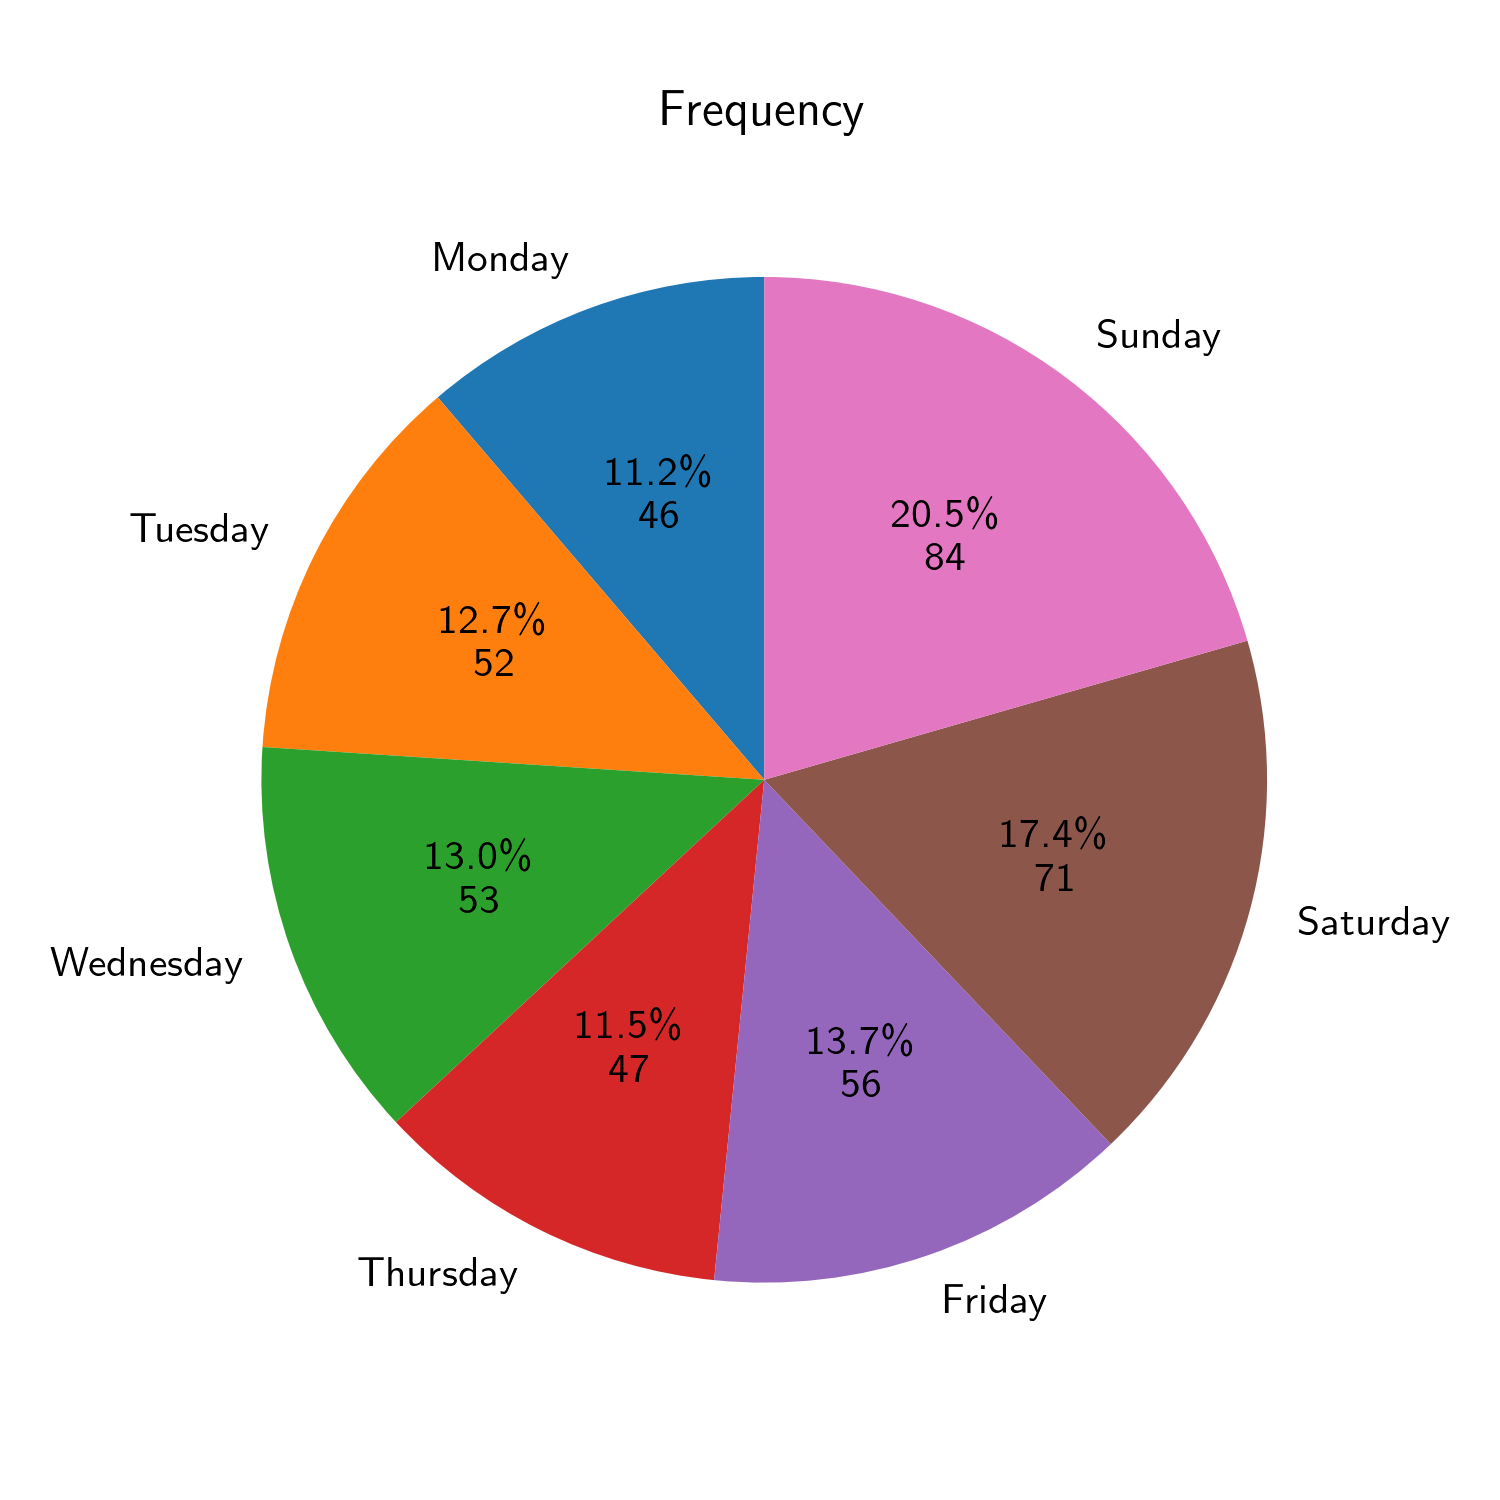
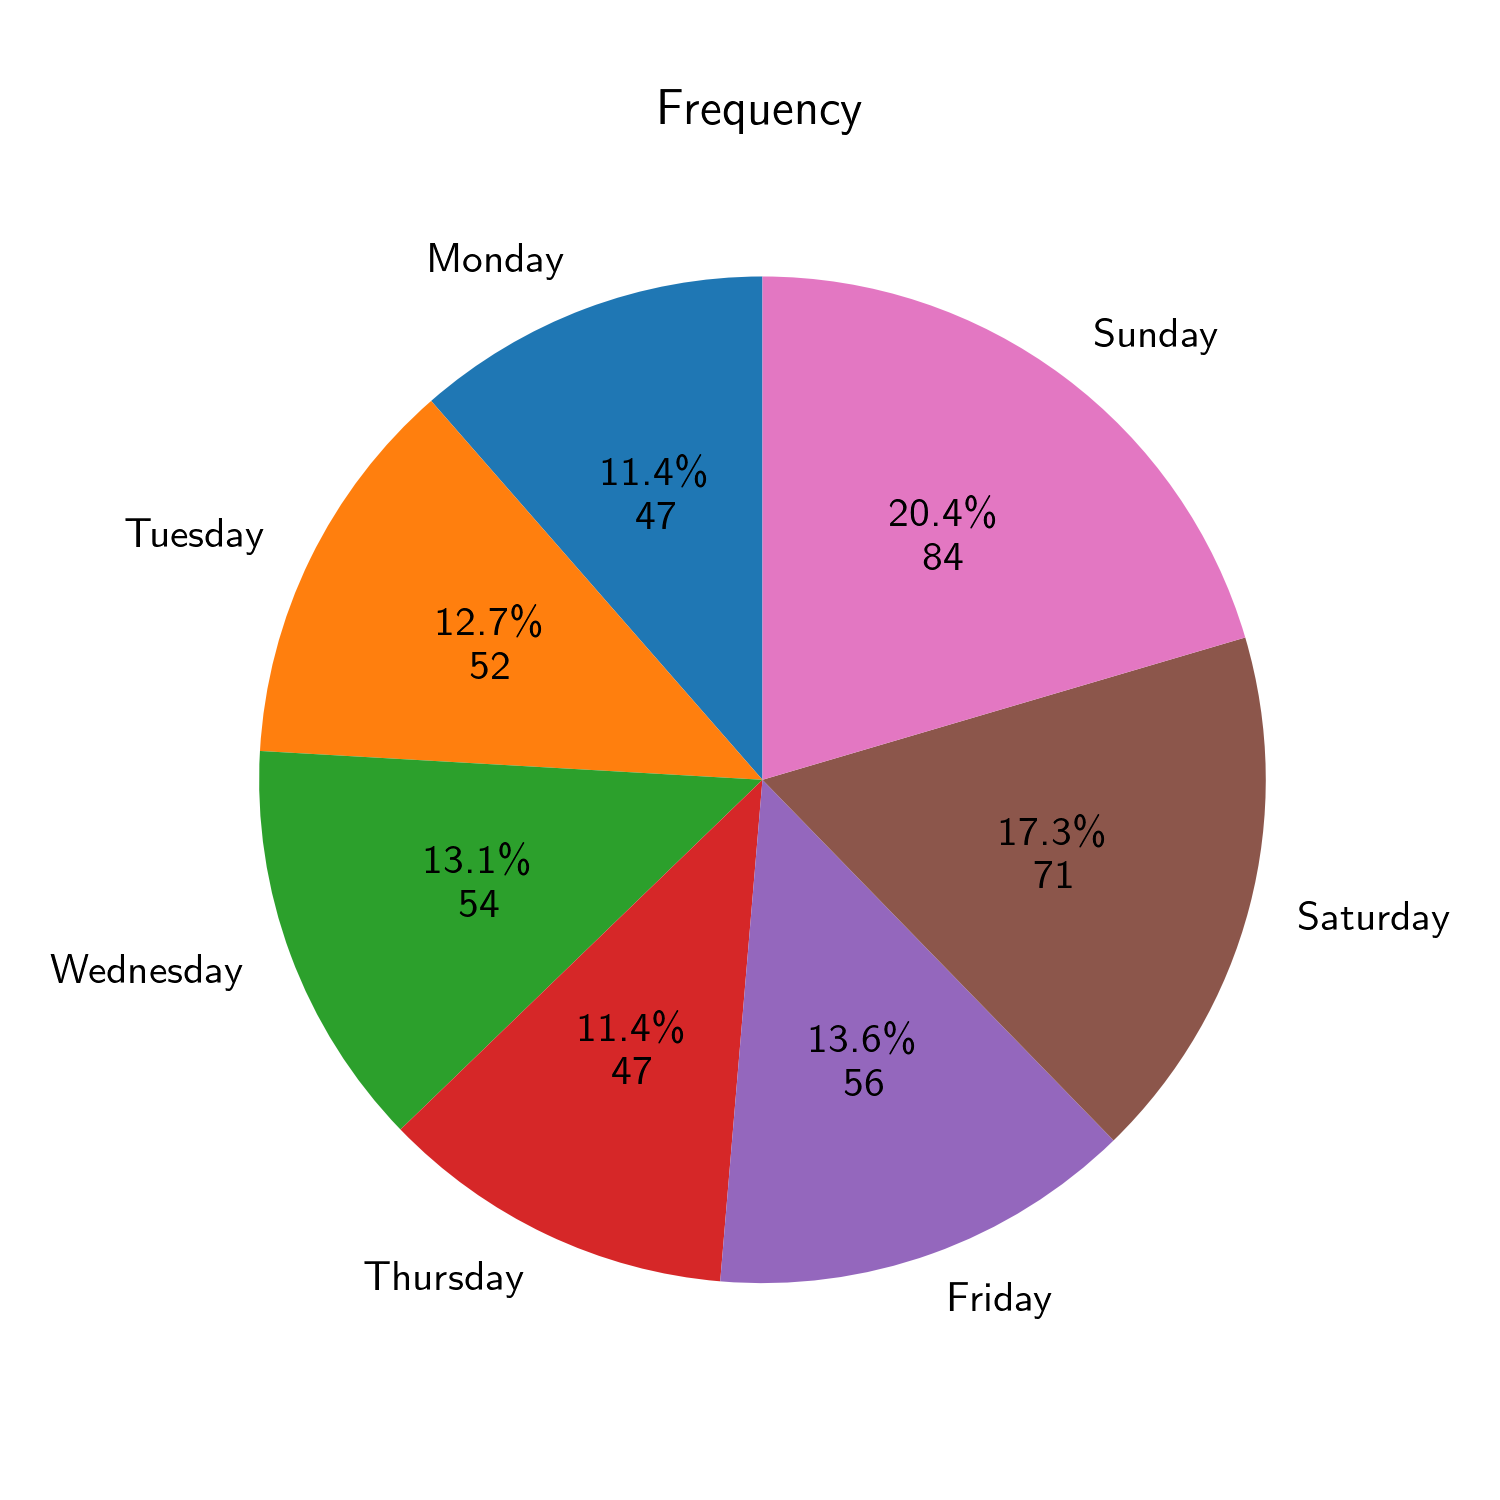
update data

diff --git a/README.md b/README.md
@@ -1,13 +1,13 @@
-last update: 09.10.2024, Wednesday, time: 20:43  
+last update: 10.10.2024, Thursday, time: 09:14  
 # Overview  
 || Whole | Half |  
 |---|---|---|  
-|Total $/ \textup{€}$|192.834 $\pm$ 55.226|109.354 $\pm$ 31.234|  
-|Ratio $/ \frac{\textup{€}}{\textup{h}}$| 4.518 $\pm$  0.789| 5.129 $\pm$  1.105|  
-|Cash $/ \textup{€}$|65.455 $\pm$ 35.148|43.607 $\pm$ 21.058|  
-|Cash $/ \\% $|41.471 $\pm$  8.344|43.982 $\pm$  9.854|  
-|Card $/ \textup{€}$|94.182 $\pm$ 52.745|56.617 $\pm$ 28.702|  
-|Card $/ \\% $|58.529 $\pm$  8.344|56.018 $\pm$  9.854|  
+|Total $/ \textup{€}$|192.586 $\pm$ 55.050|109.354 $\pm$ 31.234|  
+|Ratio $/ \frac{\textup{€}}{\textup{h}}$| 4.512 $\pm$  0.789| 5.129 $\pm$  1.105|  
+|Cash $/ \textup{€}$|65.441 $\pm$ 35.009|43.607 $\pm$ 21.058|  
+|Cash $/ \\% $|41.445 $\pm$  8.333|43.982 $\pm$  9.854|  
+|Card $/ \textup{€}$|94.236 $\pm$ 52.530|56.617 $\pm$ 28.702|  
+|Card $/ \\% $|58.555 $\pm$  8.333|56.018 $\pm$  9.854|  
 # Frequency  
     
 ![Image](./png/frequency.png)  
@@ -49,12 +49,12 @@ last update: 09.10.2024, Wednesday, time: 20:43
 # Weekday  
 |||Whole|Half|  
 |---|---|---|---|  
-|Monday|Total $/ \textup{€}$|158.59 $\pm$ 37.10|101.02 $\pm$ 23.93|  
-||Ratio $/ \frac{\textup{€}}{\textup{h}}$|  4.15 $\pm$  0.75|  5.41 $\pm$  1.12|  
+|Monday|Total $/ \textup{€}$|158.77 $\pm$ 36.36|101.02 $\pm$ 23.93|  
+||Ratio $/ \frac{\textup{€}}{\textup{h}}$|  4.13 $\pm$  0.74|  5.41 $\pm$  1.12|  
 |Tuesday|Total $/ \textup{€}$|157.47 $\pm$ 33.74| 87.62 $\pm$ 17.87|  
 ||Ratio $/ \frac{\textup{€}}{\textup{h}}$|  4.33 $\pm$  0.78|  4.96 $\pm$  1.07|  
-|Wednesday|Total $/ \textup{€}$|165.92 $\pm$ 29.06| 93.17 $\pm$ 20.39|  
-||Ratio $/ \frac{\textup{€}}{\textup{h}}$|  4.49 $\pm$  0.76|  5.10 $\pm$  1.05|  
+|Wednesday|Total $/ \textup{€}$|165.90 $\pm$ 28.60| 93.17 $\pm$ 20.39|  
+||Ratio $/ \frac{\textup{€}}{\textup{h}}$|  4.47 $\pm$  0.75|  5.10 $\pm$  1.05|  
 |Thursday|Total $/ \textup{€}$|153.83 $\pm$ 44.89| 88.34 $\pm$ 18.21|  
 ||Ratio $/ \frac{\textup{€}}{\textup{h}}$|  4.12 $\pm$  0.66|  4.77 $\pm$  0.96|  
 |Friday|Total $/ \textup{€}$|194.55 $\pm$ 35.03|104.48 $\pm$ 25.23|  
@@ -68,8 +68,8 @@ Special: Holidays and Weekends
 ## Whole day  
 ||Total $/ \textup{€}$|Ratio $/ \frac{\textup{€}}{\textup{h}}$|Count|  
 |---|---|---|---|  
-|All|192.83 $\pm$ 55.23|  4.52 $\pm$  0.79|228  
-|Normal|166.50 $\pm$ 39.04|  4.31 $\pm$  0.75|148  
+|All|192.59 $\pm$ 55.05|  4.51 $\pm$  0.79|230  
+|Normal|166.47 $\pm$ 38.78|  4.30 $\pm$  0.75|150  
 |Weekend|241.55 $\pm$ 47.08|  4.90 $\pm$  0.71|80  
 |Holiday|183.40 $\pm$ 54.54|  4.43 $\pm$  0.82|63  
 |Special|213.83 $\pm$ 59.62|  4.67 $\pm$  0.80|124  
